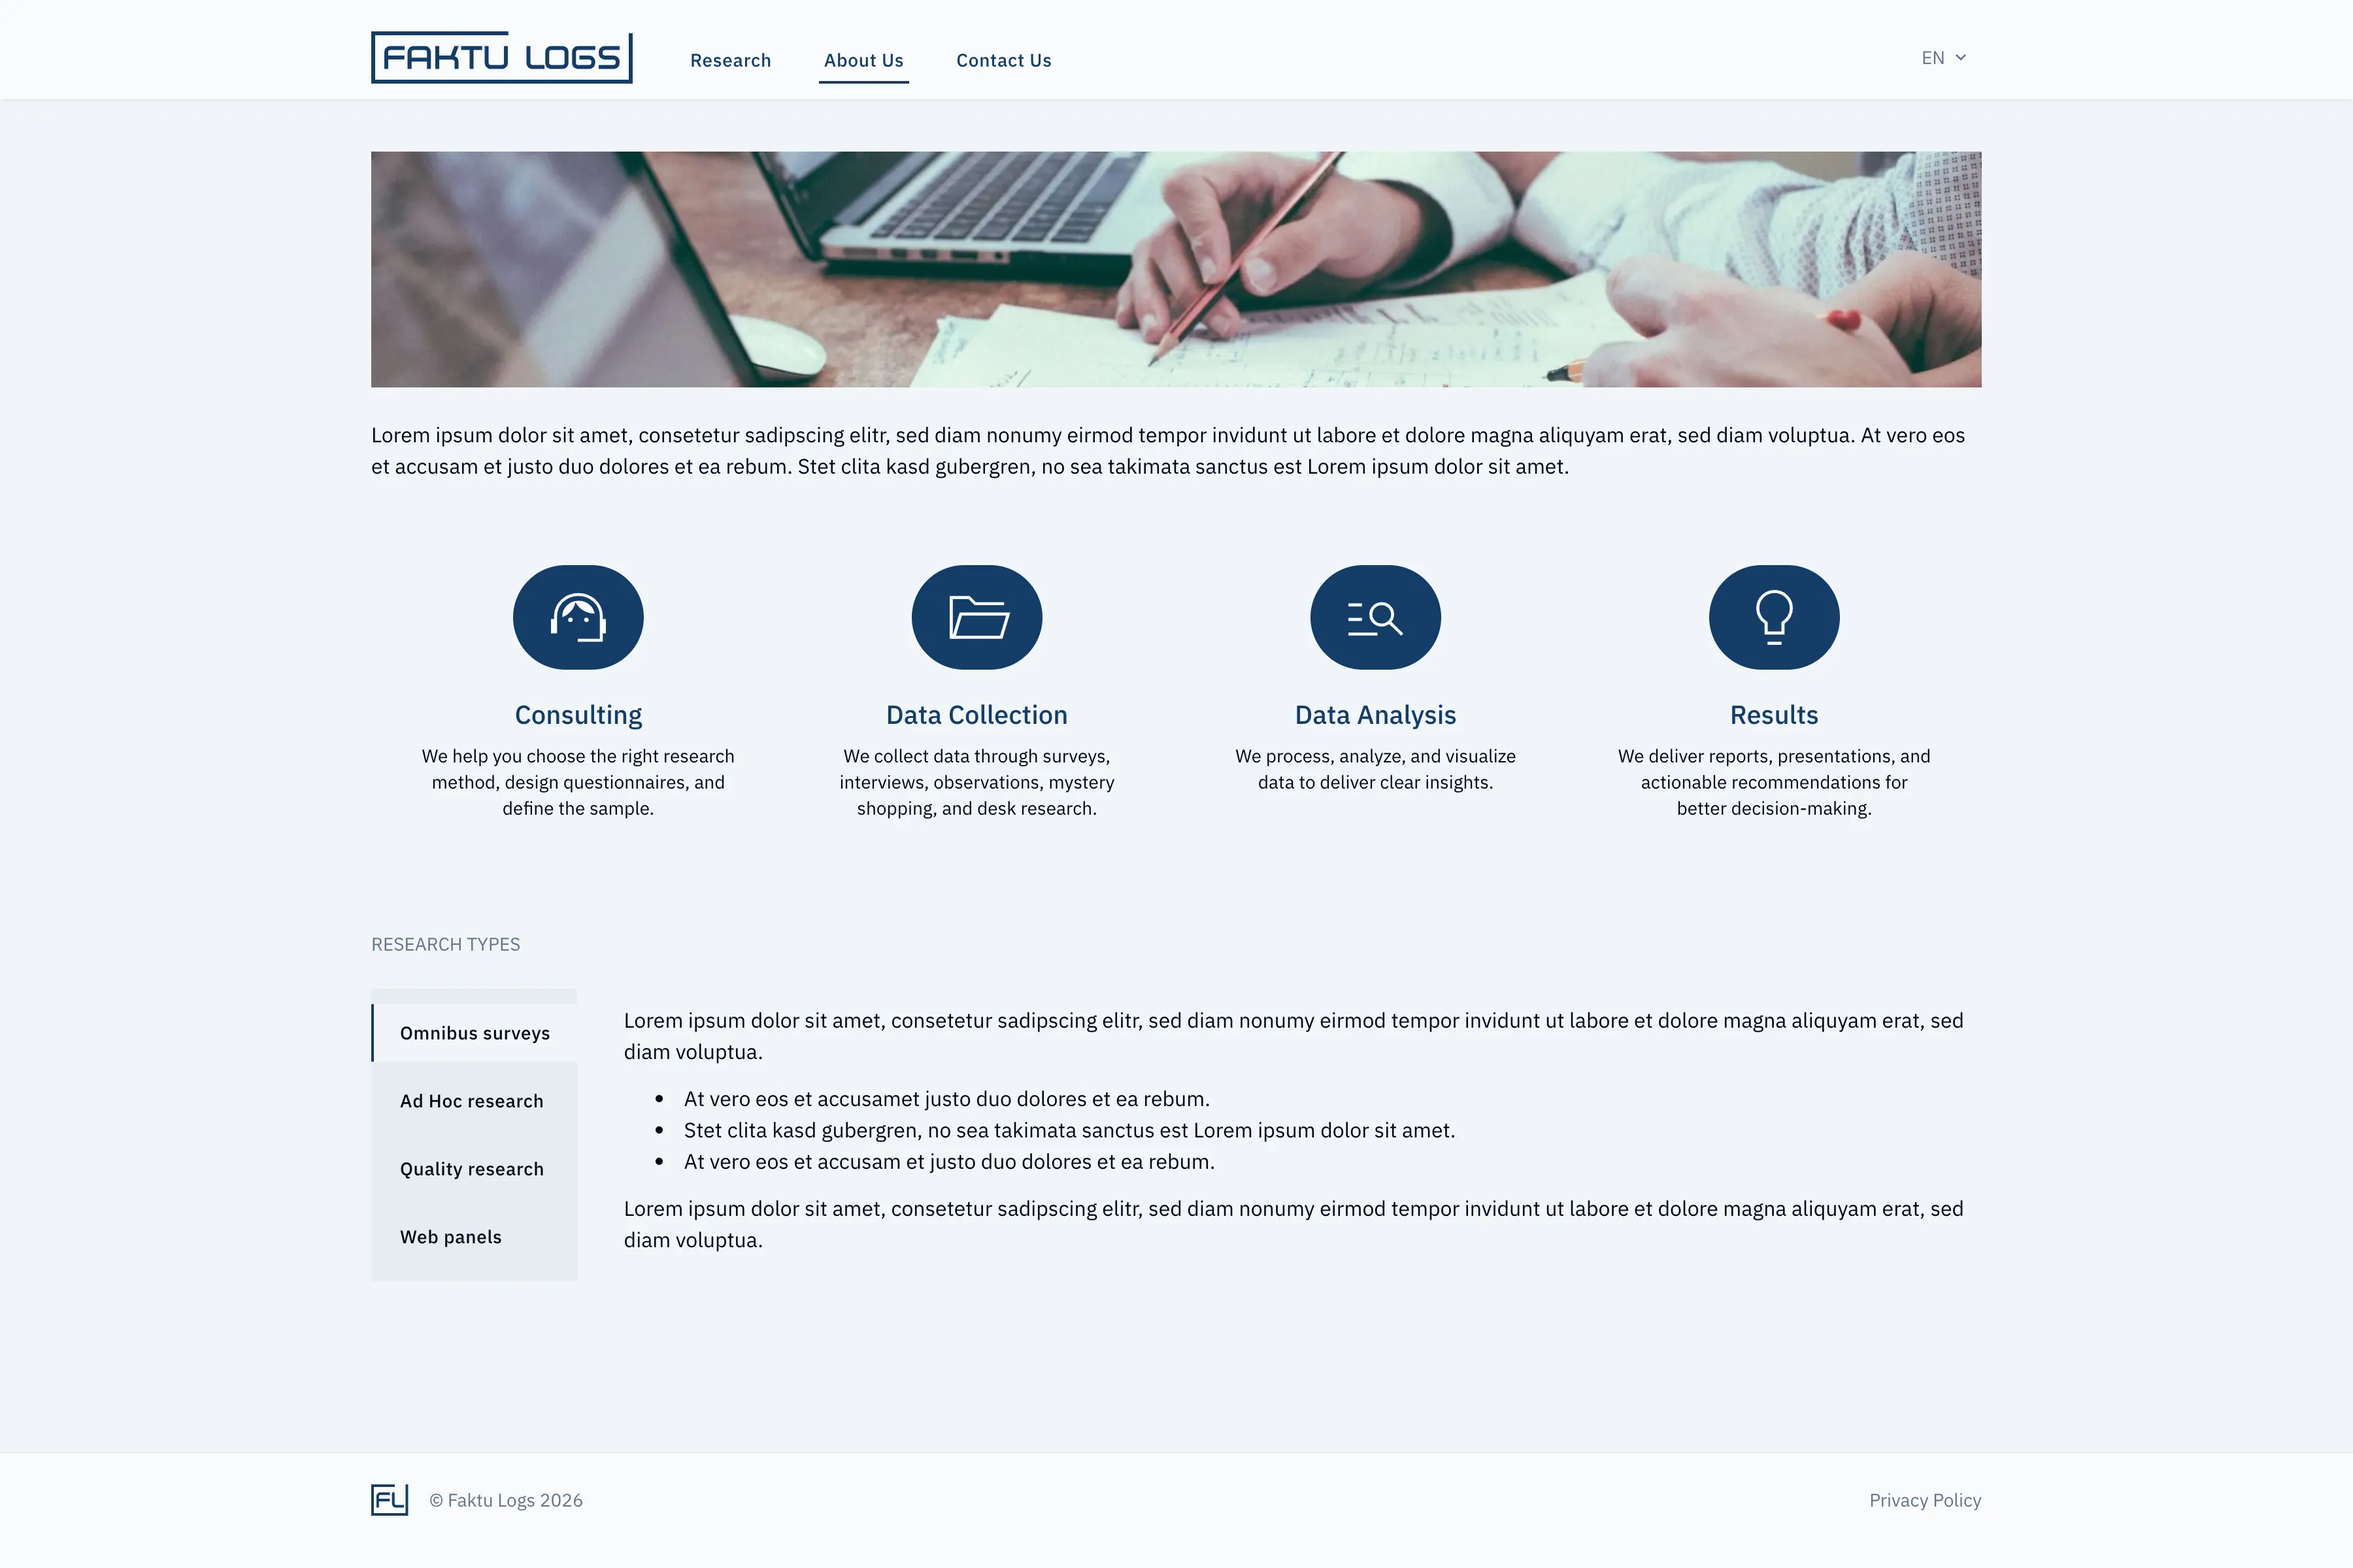
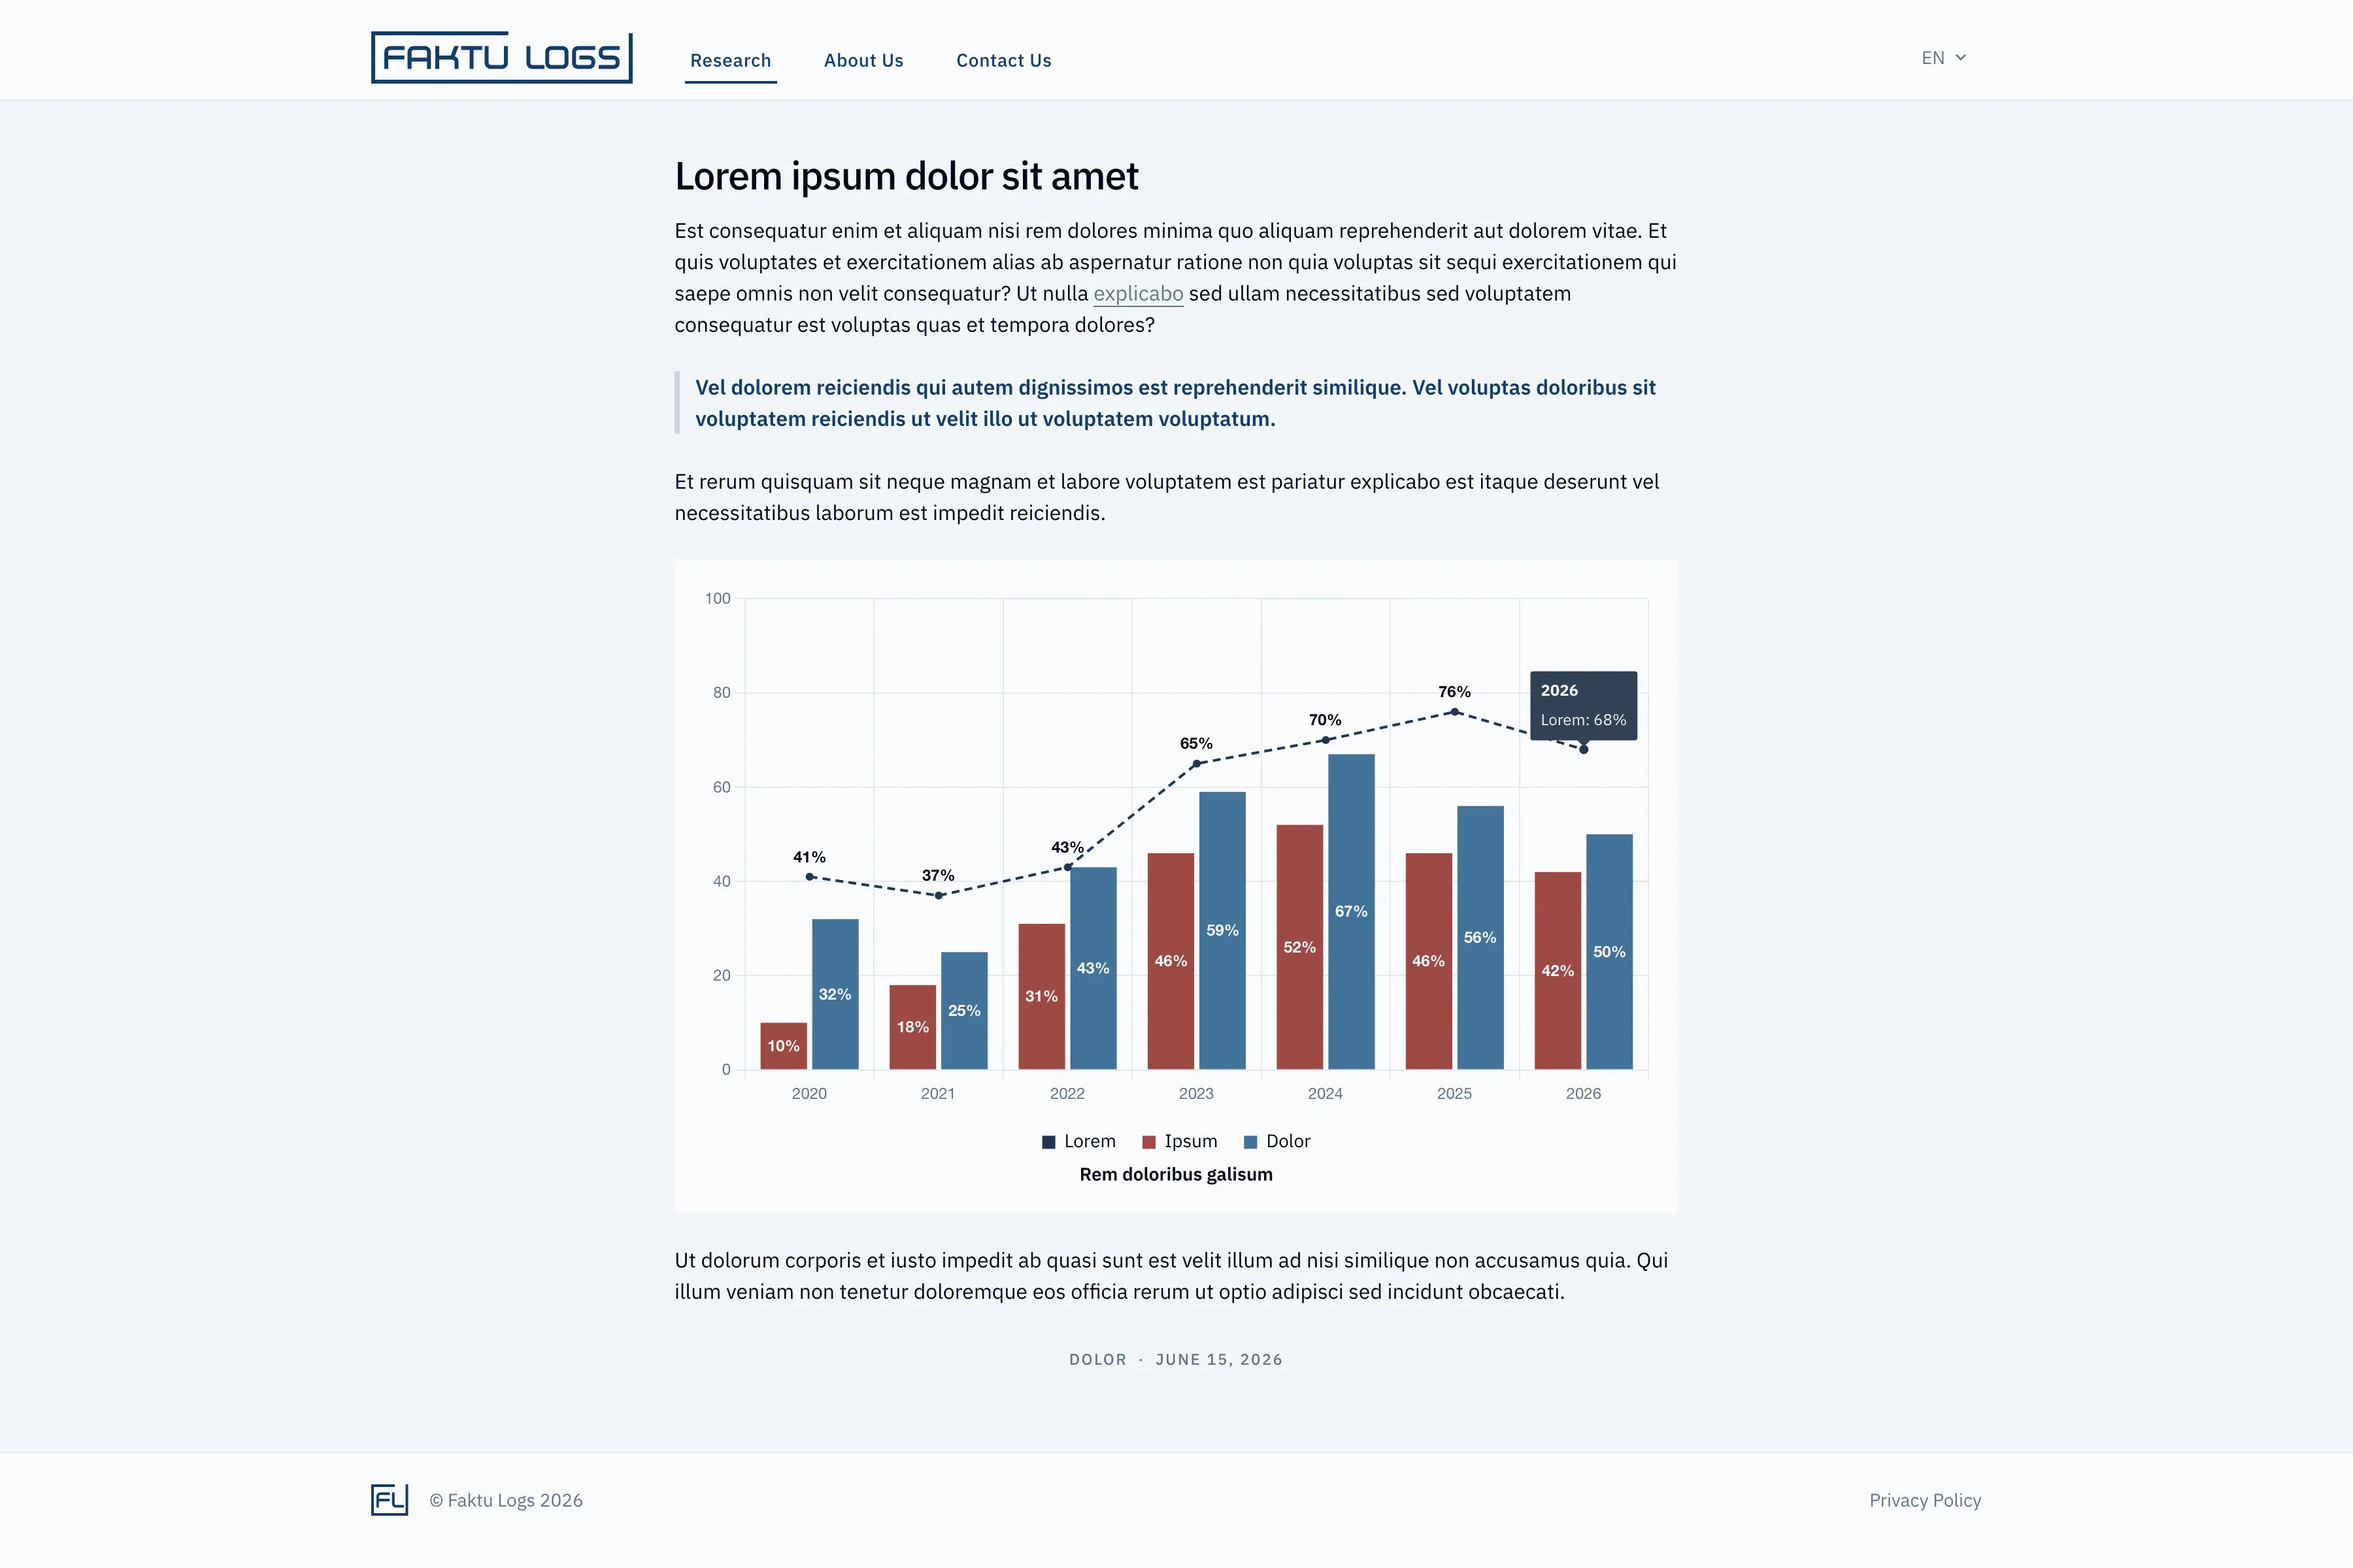
New product image. Copy update.

diff --git a/index.html b/index.html
@@ -6,7 +6,7 @@
     <title>Rita Krastiņa — Software Developer</title>
     <meta
       name="description"
-      content="Portfolio of Rita Krastiņa, Software Developer."
+      content="Personal portfolio of Rita Krastiņa, Software Developer."
     />
     <link rel="preconnect" href="https://fonts.googleapis.com" />
     <link rel="preconnect" href="https://fonts.gstatic.com" crossorigin />
@@ -183,6 +183,20 @@
                   draggable="false"
                 />
               </button>
+              <button
+                type="button"
+                class="project-thumbnail"
+                aria-label="Faktu Logs preview 4"
+                aria-current="false"
+                data-src="images/faktu-logs-4.webp"
+              >
+                <img
+                  src="images/faktu-logs-4.webp"
+                  alt=""
+                  loading="lazy"
+                  draggable="false"
+                />
+              </button>
             </div>
 
             <dialog class="gallery" aria-label="Faktu Logs gallery">
@@ -266,6 +280,13 @@
                     draggable="false"
                   />
                 </section>
+                <section class="gallery-slide">
+                  <img
+                    src="images/faktu-logs-4.webp"
+                    alt="Faktu Logs — screenshot 4"
+                    draggable="false"
+                  />
+                </section>
               </div>
             </dialog>
           </div>
@@ -278,12 +299,11 @@
               <br />
               <br />
               Built on <strong>Next.js 16</strong> (App Router) and
-              <strong>React 19</strong> with <strong>TypeScript</strong>, the
+              <strong>React 19</strong> with <strong>TypeScript</strong>. The
               platform utilizes <strong>Tailwind CSS</strong> for responsive
               styling, <strong>Chart.js</strong> for dynamic data
               representation, and <strong>Sanity CMS</strong> for real-time
-              headless content management, all deployed on
-              <strong>Vercel</strong>.
+              headless content management. Deployed on <strong>Vercel</strong>.
             </p>
             <a
               class="link project-link"

diff --git a/style.css b/style.css
@@ -285,7 +285,7 @@ footer .contact-links {
   transition: transform 0.2s ease;
 }
 .project-hero-img:hover {
-  transform: scale(1.01);
+  transform: scale(1.02);
 }
 
 .project-thumbnails {
@@ -295,9 +295,8 @@ footer .contact-links {
 
 .project-thumbnail {
   display: flex;
-  width: 4.5rem;
+  max-width: 4.5rem;
   height: 3rem;
-  flex-shrink: 0;
   border: 1px solid var(--line);
   border-radius: 0.25rem;
   overflow: hidden;
